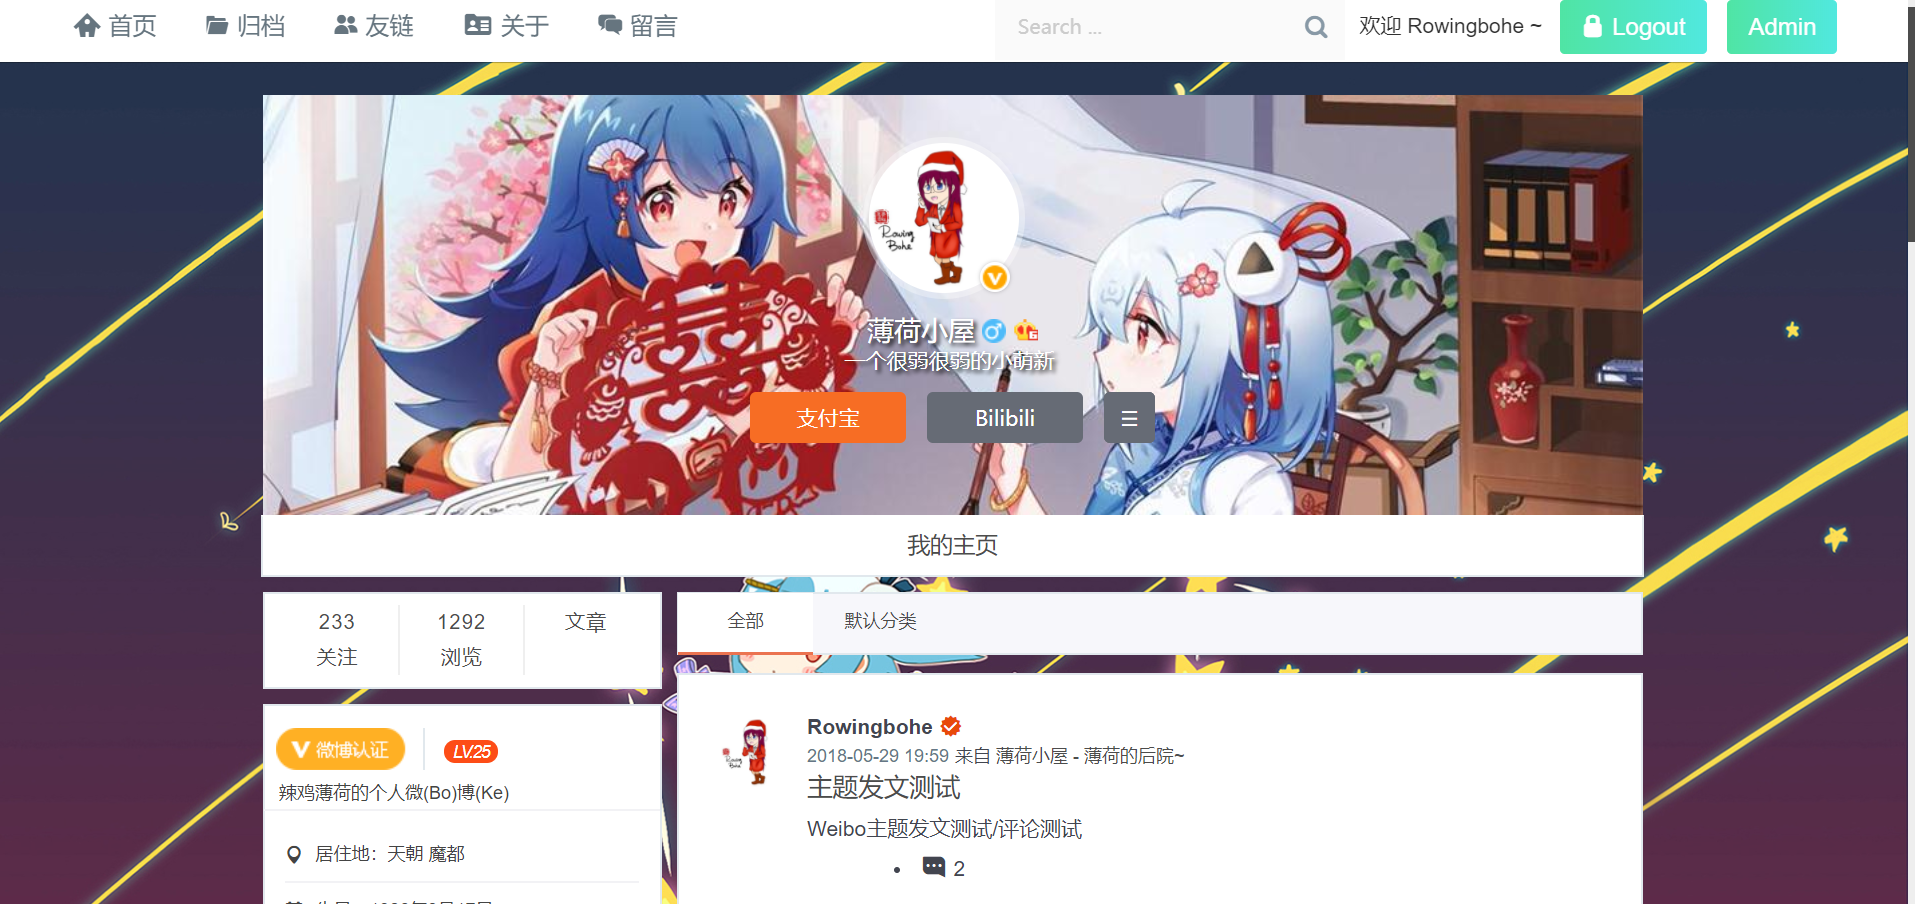
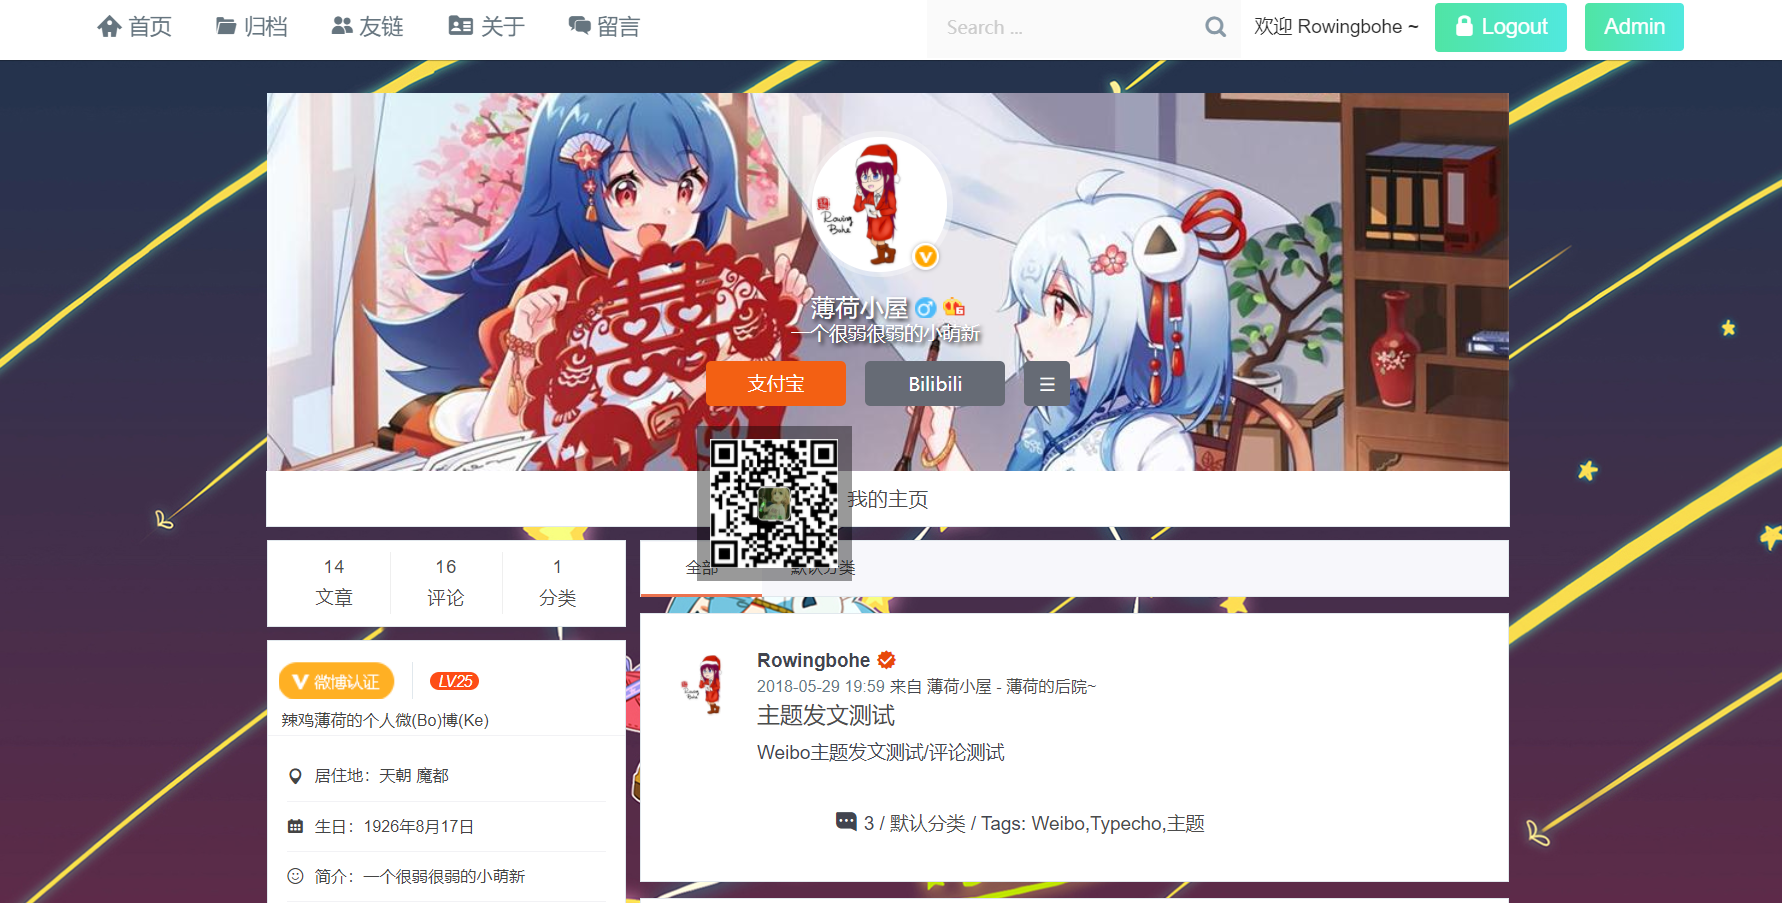
V2.0.0(第一个公测版)
V2.0.0更新内容：
侧边栏的三个数字改为文章、评论数、分类数
可自定义顶部卡片背景链接
修复了一堆bug
完美嵌套评论
修改readme.md
首页增加页码、单条文章聚合增加分类和tags显示
修复搜索功能问题
删除侧边栏的查看更多
More...
（还没资瓷手机版）

diff --git a/style/emm.css b/style/emm.css
@@ -1,6 +1,3 @@
-body{
-    cursor: url(../images/cursor.ico),auto;
-}
 a:hover {
     text-decoration: none;
 }
@@ -65,7 +62,7 @@ a:hover {
     width: 100%;
     height: 100%;
 }
-.portrait {
+.avatar {
     height: 40px;
     width: 40px;
     border-radius: 50%;
@@ -73,7 +70,7 @@ a:hover {
     float: left;
     margin: 10px 0px 10px 0px;
 }
-.portrait:hover {
+.avatar:hover {
     transform: rotate(360deg);
 }
 .com {
@@ -90,24 +87,7 @@ a:hover {
     margin-bottom: 50px;
     margin-top: 10px;
 }
-/*颜表情评论框*/
-.expression {
-    list-style: none;
-    padding-left: 20px;
-}
-.expression li {
-    overflow: hidden;
-    float: left;
-    width: auto;
-    border-radius: 30px;
-    padding: 5px 5px 5px 5px;
-    margin: 5px 5px 5px 5px ;
-    background-color: #F7F7F7;
-}
-.expression li:hover{
-    -webkit-animation: shake 1s infinite;
-    animation: shake 1s infinite;
-}
+
 .clear{
     clear:both;
 }
@@ -159,32 +139,4 @@ a:hover {
 .shake {
     -webkit-animation: shake 1s infinite;
     animation: shake 1s infinite;
-}
-/*表情框抖动*/
-.pl{
-    font-size: 5px;
-    color: #888;
-}
-.pl:hover{
-    -webkit-animation: shake 0.5s infinite;
-    animation: shake 0.5s infinite;
-    background-color: #FFFFFF;
-    color: #444;
-}
-/*颜表情*/
-#OwO-body{
-    display: none;
-    float: left;
-    border: 1px solid #fff;
-}
-#OwO-body li{
-    cursor: pointer;
-}
-.input-div{
-    float: right;
-}
-.align{
-    text-align:left;
-    list-style:none;
-    margin-left: 20%;
 }

diff --git a/comments.php b/comments.php
@@ -1,10 +1,12 @@
                 <h3>&nbsp;&nbsp;&nbsp; <?php $this->commentsNum(_t('评论区(暂无评论)'), _t('评论区(仅有一条评论)'), _t('评论区(%d条评论)')); ?> </h3><hr>
     <?php $this->comments()->to($comments); ?>
         <?php while($comments->next()): ?>
-<?php $comments->gravatar(50, ""); ?>
+    <div style="margin-right: 40px;margin-left: 40px;border-bottom : 1px solid #e1e8ed;">
+    <?php $comments->gravatar(); ?>
     <div class="com">
         <?php $comments->content(); ?>
-        <p><a class="com-color" target="_blank" href="<?php $comments->url(); ?>"><?php $comments->author(); ?> </a><time><?php $comments->date('Y-m-d H:i'); ?></time> #<?php $comments->sequence(); ?></p> 
+      <p><a class="com-color" target="_blank" href="<?php $comments->url(); ?>"><?php $comments->author(); ?> </a><time><?php $comments->date('Y-m-d H:i'); ?> </time>#<?php $comments->sequence(); ?></p> 
+    </div>
     </div>
 <?php endwhile; ?>
 <!-- 判断设置是否允许对当前文章进行评论 -->
@@ -17,17 +19,16 @@
        <textarea class="textinput" id="comment" name="text" cols="45" rows="1" maxlength="65525" aria-required="true" required="required" tabindex="4" placeholder="<?php $this->options->commentCustom1(); ?>"><?php $this->remember('text'); ?></textarea> 
         <div class="clear"></div>
       <div class="author-info edit-on"> 
-        <?php if($this->user->hasLogin()): ?>
+      <?php if($this->user->hasLogin()): ?>
             <!-- 显示当前登录用户的用户名以及登出连接 -->
             <p>Logged in as <a href="<?php $this->options->adminUrl(); ?>"><?php $this->user->screenName(); ?></a>. 
             <a href="<?php $this->options->index('Logout.do'); ?>" title="Logout">Logout &raquo;</a></p>
         <!-- 若当前用户未登录 -->
         <?php else: ?>
-
        <input type="text" name="author" class="textinput" size="35" tabindex="1" required="required" placeholder="昵称"" />
        <input type="text" name="mail" class="textinput" size="35" tabindex="2" placeholder="邮箱 (选填)"" />
        <input type="text" name="url" class="textinput" size="35" tabindex="3" size="35" tabindex="2" placeholder="个人主页地址 (选填)"" />
-<?php endif; ?>
+      <?php endif; ?>
       </div>
       <ul class="comment-submit"> 
        <li class="middle"> <button name="submit" type="submit" id="button" class="push-status" tabindex="5"><?php $this->options->commentCustom2(); ?></button> </li> 

diff --git a/sidebar.php b/sidebar.php
@@ -1,19 +1,20 @@
-      <section id="contents" class="width">
+      <section id="contents" class="width">
         <!-- 侧边栏 -->
         <aside id="aside" class="left">
           <div class="inner">
             <div class="sns web-info">
               <li class="frinum">
-                <a href="javascript:void(0)"><?php $this->options->followNumber() ?>
-                  <span>关注</span></a>
+              <?php Typecho_Widget::widget('Widget_Stat')->to($stat); ?>
+                <a href="javascript:void(0)"><?php echo $stat->PublishedPostsNum ?>
+                  <span>文章</span></a>
               </li>
               <li class="vitnum">
-                <a href="javascript:void(0)">1292
-                  <span>浏览</span></a>
+                <a href="javascript:void(0)"><?php echo $stat->PublishedCommentsNum ?>
+                  <span>评论</span></a>
               </li>
               <li class="ptnum">
-                <a href="javascript:void(0)"><?php echo $stat->publishedPostsNum;?>
-                  <span>文章</span></a>
+                <a href="javascript:void(0)"><?php echo $stat->categoriesNum ?>
+                  <span>分类</span></a>
               </li>
             </div>
             <div class="sns master-info">
@@ -38,9 +39,6 @@
                   <i class="icon louie-link-o"></i>
                   <a class="tips-right" aria-label="个性域名" href="<?php $this->options->siteUrl(); ?>" target="_blank">个性域名：<?php $this->options->siteUrl(); ?></a></li>
               </ul>
-              <div class="sns readmore">
-                <a href="https://www.52ecy.cn/post-18.html">查看更多&nbsp;&gt;</a></div>
-            </div>
             <div class="alteration">
               <div class="widget">
                 <h3 class="widget-title">
@@ -67,6 +65,7 @@
                 <!-- 评论结束 -->
                 </div>
               </div>
+            <?php if (class_exists("Links_Plugin")): ?>
               <div class="widget">
                 <h3 class="widget-title">
                   <i class="icon icon louie-smile"></i>左邻右舍</h3>
@@ -89,6 +88,7 @@
                 <!-- 友链结束 -->
                 </ul>
               </div>
+<?php endif; ?>
           </div>
         </aside>
         <!-- 侧边栏结束 -->

diff --git a/header.php b/header.php
@@ -1,4 +1,4 @@
-<!DOCTYPE html>
+<!DOCTYPE html>
 <html>
   <head>
     <meta charset="utf-8">
@@ -25,9 +25,8 @@
     <link rel="stylesheet" href="<?php $this->options->themeUrl('style/custom.css'); ?>" type="text/css">
     <link rel="stylesheet" href="<?php $this->options->themeUrl('style/cue.css'); ?>" type="text/css">
     <link rel="stylesheet" href="<?php $this->options->themeUrl('style/like.css'); ?>" type="text/css">
-    <link rel="stylesheet" type="text/css" href="<?php $this->options->themeUrl('style/main.css'); ?>">
+    <link rel="stylesheet" href="<?php $this->options->themeUrl('style/emm.css'); ?>" type="text/css">
     <script src="https://cdnjs.loli.net/ajax/libs/jquery/1.8.0/jquery.min.js"></script>
-    <?php $this->options->optionHeader(); ?>
     <?php $this->header(); ?>
   </head>
   <body class="home blog" style="background-image: url(<?php $this->options->themeUrl('images/body_repeat.png'); ?>); background-color: #d4d5e0; background-repeat: repeat-x; background-position: center 0;">
@@ -65,8 +64,8 @@
                <?php if($this->user->hasLogin()): ?>
                 欢迎 <?php $this->user->screenName(); ?> ~&nbsp;&nbsp;&nbsp;
                <?php endif; ?>
-              <form method="get" class="searchform" action="https://blog.52ecy.cn/" role="search">
-                <input type="search" name="keyword" class="textinput" size="26" placeholder="Search ...">
+                <form id="search" method="post" class="searchform" action="<?php $this->options->siteUrl(); ?>" role="search">
+                <input type="text" id="s" name="s" class="textinput" size="26" placeholder="Search ...">
                 <span class="icon search-icon"></span></form>
               <div class="logged button">
                <?php if($this->user->hasLogin()): ?>
@@ -91,7 +90,7 @@
           </div>
         </section>
         <!-- 导航结束 -->
-        <section class="banner bg" style="background-image: url(https://ww2.sinaimg.cn/large/a15b4afegy1fnagaoz26lj20sn0g476s.jpg)">
+        <section class="banner bg" style="background-image: url(<?php $this->options->cardBgUrl(); ?>)">
           <div class="big-title">
             <a style="color:#fff;" href="<?php $this->options->siteUrl(); ?>">
               <h1 class="big-title-h1"><?php $this->options->yourNickname(); ?>

diff --git a/functions.php b/functions.php
@@ -19,6 +19,8 @@ function themeConfig($form) {
     $form->addInput($faviconUrl);
     $bgUrl = new Typecho_Widget_Helper_Form_Element_Text('bgUrl', NULL, NULL, _t('背景图片链接'), _t('在这里填入背景链接'));
     $form->addInput($bgUrl);
+    $cardBgUrl = new Typecho_Widget_Helper_Form_Element_Text('cardBgUrl', NULL, NULL, _t('顶部卡片背景图片链接'), _t('在这里填入顶部卡片的背景链接'));
+    $form->addInput($cardBgUrl);
 
     $commentCustom1 = new Typecho_Widget_Helper_Form_Element_Text('commentCustom1', NULL, NULL, _t('评论框内提示内容'), _t('比如：还不赶快说些什么呀~'));
     $form->addInput($commentCustom1);
@@ -31,8 +33,6 @@ function themeConfig($form) {
     $form->addInput($yourDescription);
     $verified = new Typecho_Widget_Helper_Form_Element_Text('verified', NULL, NULL, _t('认证信息'), _t('在这里填入认证信息，它会显示在你的左侧资料卡里，如：辣鸡薄荷的个人微(Bo)博(Ke)'));
     $form->addInput($verified);
-    $followNumber = new Typecho_Widget_Helper_Form_Element_Text('followNumber', NULL, NULL, _t('关注数'), _t('关注数可自由设置，它会显示在你的左侧资料卡里，如：233'));
-    $form->addInput($followNumber);
     $levelNumber = new Typecho_Widget_Helper_Form_Element_Text('levelNumber', NULL, NULL, _t('微博等级'), _t('微博等级可自由设置，它会显示在你的左侧资料卡里，如：20'));
     $form->addInput($levelNumber);
     $yourPlace = new Typecho_Widget_Helper_Form_Element_Text('yourPlace', NULL, NULL, _t('居住地'), _t('在这里填入你的居住地，它会显示在你的左侧资料卡里，如：天朝 魔都'));

diff --git a/page.php b/page.php
@@ -1,0 +1,35 @@
+<?php $this->need('header.php');?>
+<?php include('sidebar.php'); ?> 
+
+<div id="loop" class="right">    
+    <aside id="aside" class="center">
+        <div class="nowrap"><i class="icon louie-location"></i>
+	<a href="<?php $this->options->siteUrl(); ?>">Home</a> &raquo;</li>
+	<?php if ($this->is('index')): ?><!-- 页面为首页时 -->
+		Latest Post
+	<?php elseif ($this->is('post')): ?><!-- 页面为文章单页时 -->
+		<?php $this->category(); ?> &raquo; <?php $this->title() ?>
+	<?php else: ?><!-- 页面为其他页时 -->
+		<?php $this->archiveTitle(' &raquo; ','',''); ?>
+	<?php endif; ?>
+</span>
+        </div>    
+    </aside>
+    <main class="plain width-half single" style="min-height: 500px;">
+        <div id="primary" class="content">
+            <article class="post">
+                <header class="entry-header">
+                    <h1 class="title" itemprop="name"><?php $this->title() ?></h1>
+                    <div class="meta">发布于 <time itemprop="datePublished"><?php $this->date('Y-m-d H:i'); ?></time> / <a href="<?php $this->categoryUrl(','); ?>"><?php $this->category(','); ?></a> / <span><?php $this->commentsNum('%d条评论'); ?></span> / Tags: <?php $this->tags(',', true, 'none'); ?>
+                    </div>
+                </header>
+                <div class="entry-content"> 
+                    <p><?php $this->content('Continue Reading...'); ?></p>                </div>
+<?php $this->need('comments.php'); ?>
+            </article>
+        </div>
+</div>
+</main>
+            </section>
+
+<?php $this->need('footer.php'); ?>

diff --git a/index.php b/index.php
@@ -1,10 +1,10 @@
-<?php
+<?php
 /**
  * 本主题二次移植自<a href="https://www.52ecy.cn/post-71.html">新浪微博主题静态模板(移植 by 阿珏)</a>，由<a href="https://blog.20d.win">globalHe</a>二次移植.
  * 
  * @package Weibo
  * @author globalHe
- * @version 1.9.90
+ * @version 1.0.0
  * @link https://blog.20d.win
  */
 
@@ -48,15 +48,21 @@ $this->need('header.php');?>
                   <h2 class="title" id="directory-0">
                     <a href="<?php $this->permalink() ?>" rel="bookmark"><?php $this->title() ?></a></h2>
                   <div class="summary" itemprop="description"><?php $this->excerpt(140, '...'); ?></div>
-                  <footer class="entry-footer">
-                    <li class="item count-comment">
-                      <span class="icon"></span><?php $this->commentsNum('%d '); ?></li>
-                </footer>
+                  <footer class="entry-footer"></br><span class="icon"></span><?php $this->commentsNum(); ?> / <a href="<?php $this->categoryUrl(','); ?>"><?php $this->category(','); ?></a> / Tags: <?php $this->tags(',', true, 'none'); ?></footer>
               </article>
              <?php endwhile; ?>
             </div>
-
             <!-- 文章列表结束 -->
+
+            <div class="heading">
+              <div class="inner">
+                <ul class="nav-menu-main">
+<?php $this->pageNav('上一页', '下一页'); ?>
+              </div>
+            </div>
+
+
+
           </main>
         </div>
       </section>

diff --git a/post.php b/post.php
@@ -20,15 +20,11 @@
             <article class="post">
                 <header class="entry-header">
                     <h1 class="title" itemprop="name"><?php $this->title() ?></h1>
-                    <div class="meta">发布于 <time itemprop="datePublished"><?php $this->date('Y-m-d H:i'); ?></time> / <a href="<?php $this->categoryUrl(','); ?>"><?php $this->category(','); ?></a> / <span><?php $this->commentsNum('%d条评论'); ?></span>
+                    <div class="meta">发布于 <time itemprop="datePublished"><?php $this->date('Y-m-d H:i'); ?></time> / <a href="<?php $this->categoryUrl(','); ?>"><?php $this->category(','); ?></a> / <span><?php $this->commentsNum('%d条评论'); ?></span> / Tags: <?php $this->tags(',', true, 'none'); ?>
                     </div>
                 </header>
                 <div class="entry-content"> 
-                    <p><?php $this->content('Continue Reading...'); ?></p>                </div>
-                <div class="tags">
-                                            <span class="label label-success"></span>
-                           Tags: <?php $this->tags(',', true, 'none'); ?>
-                                      </div> 
+                    <p><?php $this->content('Continue Reading...'); ?></p>                </div> 
 <?php $this->need('comments.php'); ?>
             </article>
         </div>

diff --git a/README.md b/README.md
@@ -55,13 +55,25 @@
  - 修复评论区头像显示异常的bug
 
 # 版本记录
-v1.0.0：内测版，70%功能实现
+ - v1.0.0：内测版，70%功能实现
 
-v1.9.26：第一个公测版，仍然没有单独的page.php/post.php
+ - v1.9.26：第一个公测版，仍然没有单独的page.php/post.php
 
-v1.9.89：仅仅更新了screenshot.png和readme.md
+ - v1.9.89：仅仅更新了screenshot.png和readme.md
 
-v1.9.90：
+ - v1.9.90：最后一个内测版
+
+V2.0.0（公测版）更新内容：
+ - 侧边栏的三个数字改为文章、评论数、分类数
+ - 可自定义顶部卡片背景链接
+ - 修复了一堆bug
+ - 完美嵌套评论
+ - 修改readme.md
+ - 首页增加页码、单条文章聚合增加分类和tags显示
+ - 修复搜索功能问题
+ - 删除侧边栏的查看更多
+ - More...
+ - （还没资瓷手机版）
 
  - 修复了文章显示的bug
  - 增加comments.php、post.php
